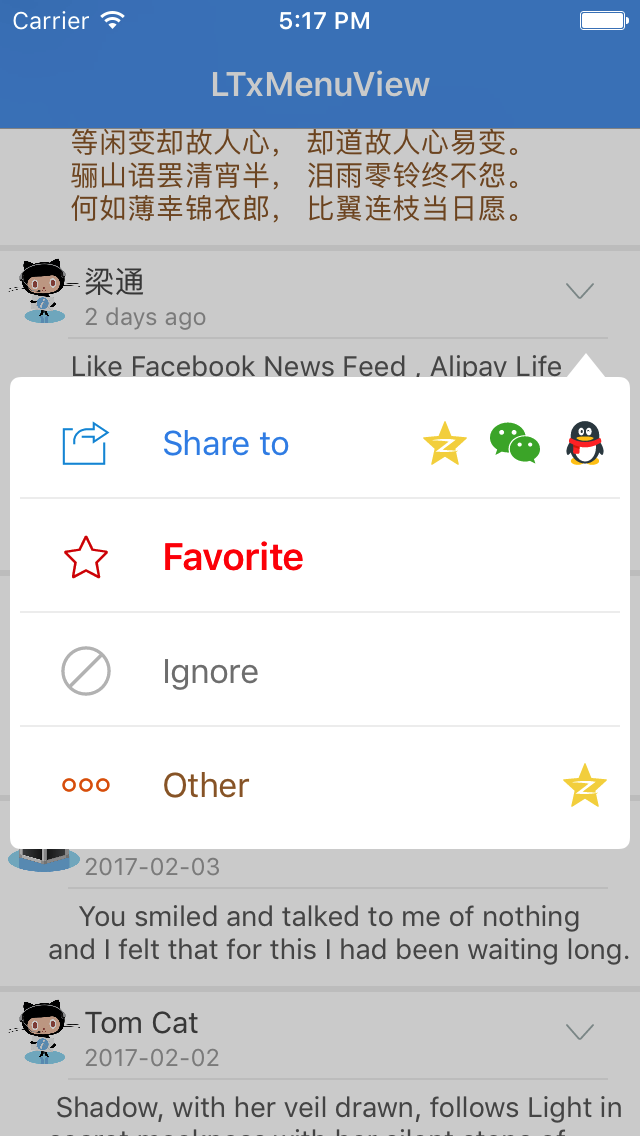
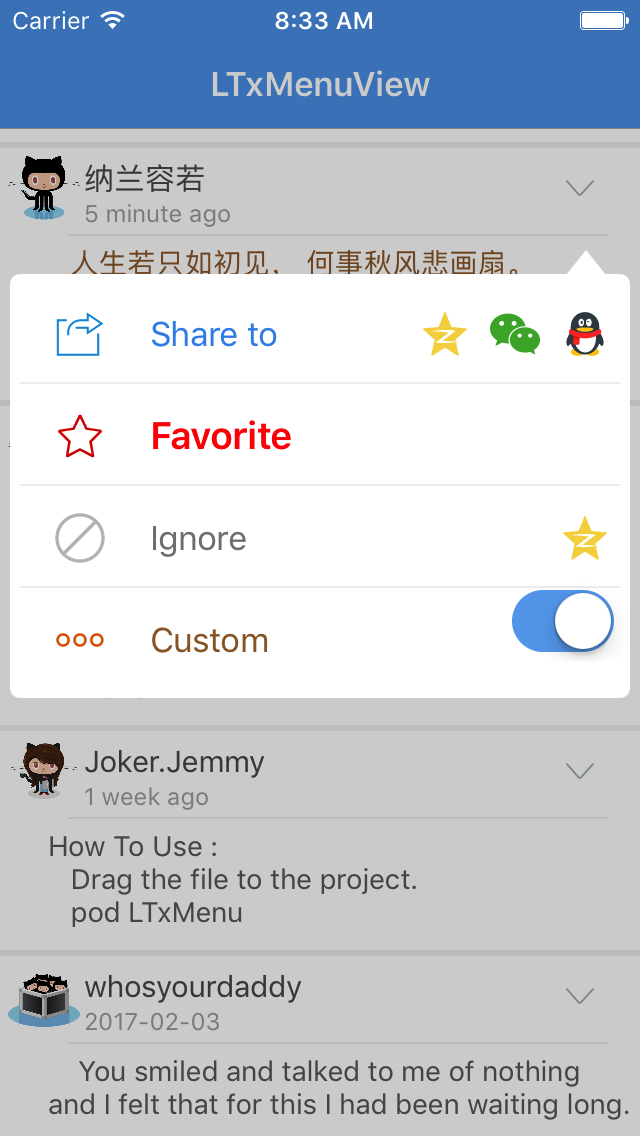
Update screenshots

diff --git a/LTxMenuDemo/LTxMenuDemo/SecondViewController.m b/LTxMenuDemo/LTxMenuDemo/SecondViewController.m
@@ -79,10 +79,10 @@
     return 4;
 }
 - (CGFloat)heightForRowAtIndex:(NSInteger)index{
-    return 56;
+    return 50;
 }
 - (NSAttributedString*)attributedTitleForRowAtIndex:(NSInteger)index{
-    NSString* title = @[@"Share to",@"Favorite",@"Ignore",@"Other"][index];
+    NSString* title = @[@"Share to",@"Favorite",@"Ignore",@"Custom"][index];
     UIColor* textColor;
     UIFont* textFont = [UIFont systemFontOfSize:17.f];
     if (index == 0) {
@@ -111,12 +111,23 @@
     wechatIV.contentMode = UIViewContentModeCenter;
     UIImageView* wechatZoneIV = [[UIImageView alloc] initWithImage:[UIImage imageNamed:@"ic_qq_zone"]];
     wechatZoneIV.contentMode = UIViewContentModeCenter;
+    UISwitch * tempSwitch = [[UISwitch alloc] init];
+    tempSwitch.onTintColor = [UIColor colorWithRed:59/255.0 green:145/255.0 blue:233/255.0 alpha:0.8];
+    [tempSwitch setOn:YES];
+    [tempSwitch addTarget:self action:@selector(switchStatusChanged:) forControlEvents:UIControlEventValueChanged];
     if (index == 0) {
         return @[qqIV,wechatIV,wechatZoneIV];
-    }else if (index == 3){
+    }else if (index == 2) {
         return @[wechatZoneIV];
+    }else if (index == 3){
+        return @[tempSwitch];
     }
     return nil;
+}
+
+# pragma mark - Action
+-(void)switchStatusChanged:(UISwitch *) changedSwitch{
+    NSLog(@"%s",__func__);
 }
 
 #pragma mark LTxMenuViewDelegate

diff --git a/LTxMenuDemo/LTxMenuDemo/FirstViewController.m b/LTxMenuDemo/LTxMenuDemo/FirstViewController.m
@@ -56,6 +56,7 @@
     wechatIV.contentMode = UIViewContentModeCenter;
     UIImageView* wechatZoneIV = [[UIImageView alloc] initWithImage:[UIImage imageNamed:@"ic_qq_zone"]];
     wechatZoneIV.contentMode = UIViewContentModeCenter;
+    
     if (index == 0) {
         return @[qqIV,wechatIV,wechatZoneIV];
     }
